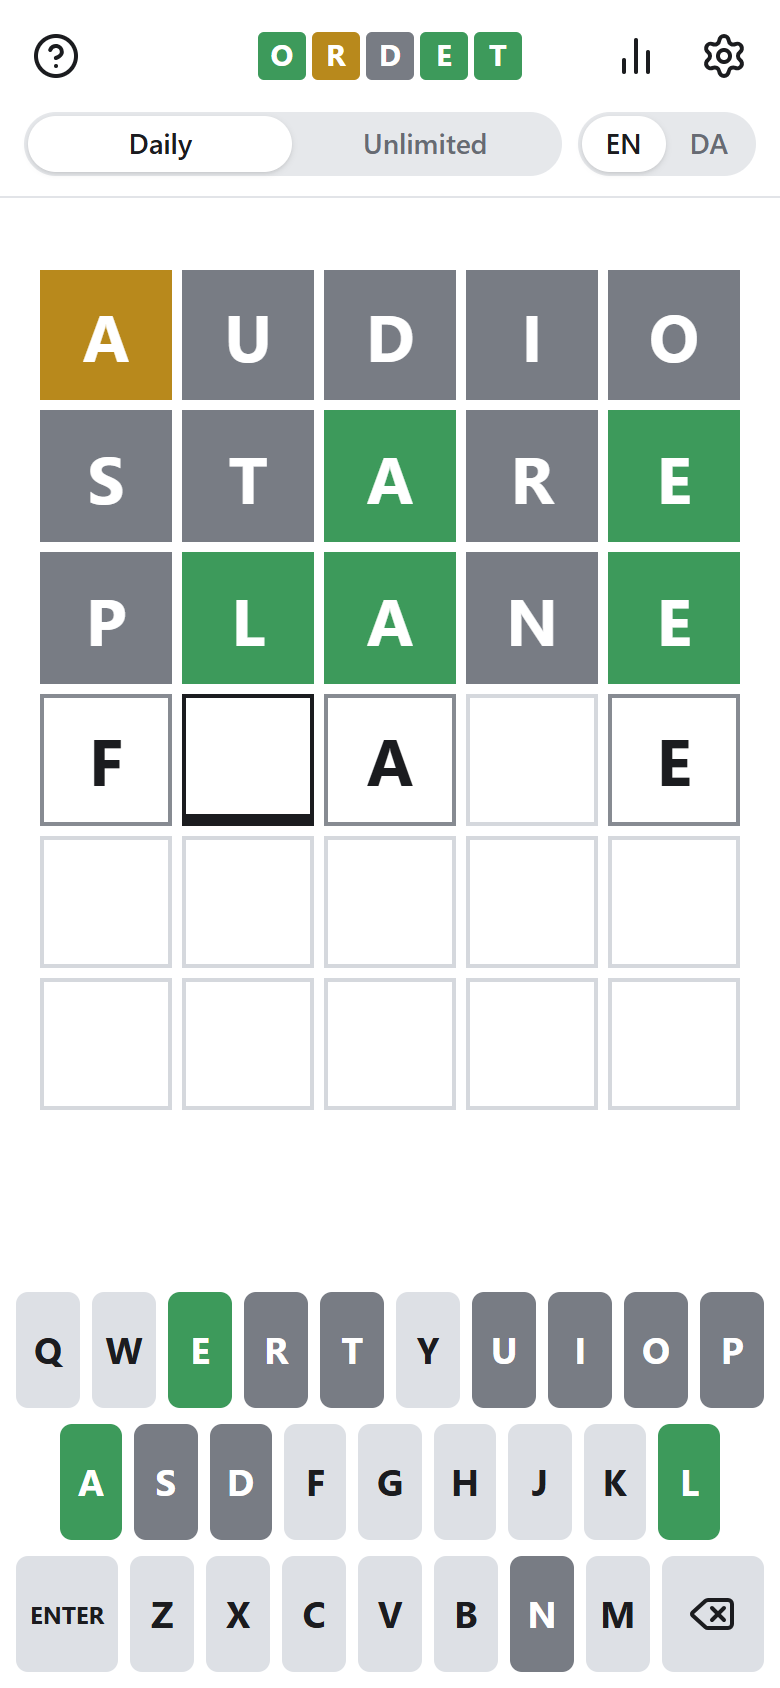
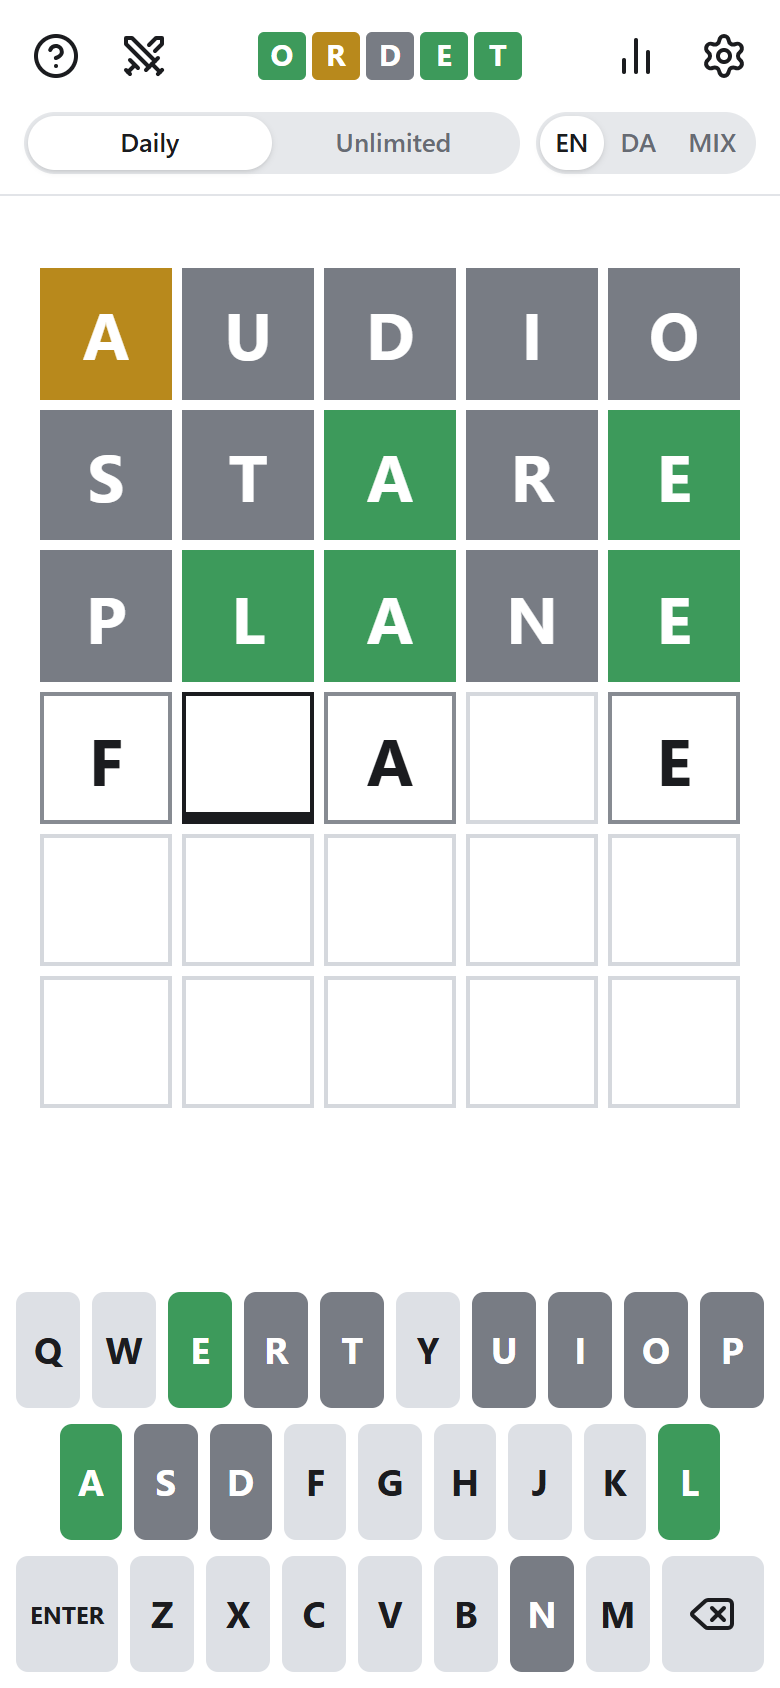
Redo the README and its pictures for the new features, with screenshots of Mix and the challenge dialog

diff --git a/scripts/screenshots.py b/scripts/screenshots.py
@@ -32,8 +32,9 @@ def game(solution: str, guesses: list[str], day: int | None = None) -> dict:
     return {"solution": solution, "guesses": guesses, "hard": False, "day": day}
 
 
-def saved(mode: str, games: dict, stats: dict | None = None, theme: str | None = None) -> dict:
-    return {"settings": {"mode": mode, "hard": False, "theme": theme, "contrast": False}, "games": games, "stats": stats or {}, "recent": {}}
+def saved(mode: str, games: dict, stats: dict | None = None, theme: str | None = None, mix: bool = False) -> dict:
+    # "news" is far ahead of any real one: the player has seen it all, so "What's new" stays out of the pictures
+    return {"settings": {"mode": mode, "mix": mix, "hard": False, "theme": theme, "contrast": False}, "games": games, "stats": stats or {}, "recent": {}, "news": 9999}
 
 
 def open_game(browser: Browser, url: str, state: dict, lang: str, **context) -> Page:
@@ -109,7 +110,21 @@ def main() -> None:
         page.wait_for_timeout(500)
         page.screenshot(path=args.out / "stats.png")
 
-        # 4. The GIF: place the greens from the first guess, fill the gaps, flip, win
+        # 4. Mix, won: a Danish and an English guess on the way, and the answer's language under the board
+        streak = {"mix-unlimited": {"played": 9, "wins": 8, "streak": 4, "best": 4, "guesses": [0, 1, 2, 3, 1, 1], "lastDay": None}}
+        page = open_game(
+            browser, args.url, saved("unlimited", {"mix-unlimited": game("fløde", ["crane", "skole", "fløde"])}, streak, mix=True), "en", locale="en-US", color_scheme="light"
+        )
+        page.screenshot(path=args.out / "mix.png")
+
+        # 5. A word for a friend: one that's in no list, so the dialog says to check the spelling
+        page = open_game(browser, args.url, saved("unlimited", {"en-unlimited": game("grape", ["crane"])}), "en", locale="en-US", color_scheme="light")
+        page.get_by_role("button", name="Challenge a friend", exact=True).click()
+        page.get_by_label("Your word").fill("ordet")
+        page.wait_for_timeout(500)
+        page.screenshot(path=args.out / "challenge.png")
+
+        # 6. The GIF: place the greens from the first guess, fill the gaps, flip, win in two (which gets confetti)
         page = open_game(
             browser,
             args.url,

diff --git a/README.md b/README.md
@@ -20,19 +20,28 @@ Every guess has to be a real five-letter word. After each one, the tiles show ho
 
 ## Features
 
-**Two modes, two languages.** Each language and mode keeps its own game, streak and statistics, so the Danish daily doesn't break the English streak.
+**Two modes, and three ways to pick the words.** Each combination keeps its own game, streak and statistics, so the Danish daily doesn't break the English streak.
 
-| | English | Danish |
-| --- | --- | --- |
-| **Daily** | The same word as that day's NYT Wordle, so you can compare with friends who play it | Ordet's own word of the day, the same for everyone |
-| **Unlimited** | A new word whenever you finish one | The same, in Danish |
+| | English | Danish | Mix |
+| --- | --- | --- | --- |
+| **Daily** | The same word as that day's NYT Wordle, so you can compare with friends who play it | Ordet's own word of the day, the same for everyone | A word that can be either, the same for everyone |
+| **Unlimited** | A new word whenever you finish one | The same, in Danish | The same, without knowing which language is next |
 
 The daily word changes at the player's own midnight.
+
+**Mix: English or Danish?** The third pick on the language switch. The answer can come from either language, guesses from both count, and working out which one you're in is part of the puzzle. More than 1,700 words count in both, so SPORT tells you nothing and an Ø tells you everything. When the game is over, it says which language the word was.
+
+**Challenge a friend.** Type any five letters, a name or an inside joke included, and send the link. Your friend gets six tries and never sees the word. A shared Unlimited result carries its word the same way, so whoever gets it can try the same one.
+
+<p align="center">
+  <img src="docs/mix.png" alt="A Mix game won in three guesses: an English guess, a Danish guess, then FLØDE, and a line under the board saying that FLØDE is Danish" width="250">
+  <img src="docs/challenge.png" alt="The Challenge a friend dialog: ORDET typed in as the word, a note that it isn't in the word list but still works, and the link that carries it" width="250">
+</p>
 
 **Type in any order.** Tap a tile, or use the arrow keys, Home and End, to move the cursor. The letters you already know can go in their spots first, and the next letters fill the gaps around them.
 
 <p align="center">
-  <img src="docs/demo.gif" alt="A guess typed out of order: R, A and E go in their spots first, G and P fill the gaps, then the tiles flip green, bounce, and the statistics open" width="300">
+  <img src="docs/demo.gif" alt="A guess typed out of order: R, A and E go in their spots first, G and P fill the gaps, then the tiles flip green and bounce, confetti flies for a win in two, and the statistics open" width="300">
 </p>
 
 **Real Danish.** The answers are common Danish words, and every inflected form in Den Danske Ordbog counts as a guess, so *huset* and *bøger* work even though they're never the answer. The Danish keyboard has Æ, Ø and Å where a Danish keyboard has them.
@@ -40,11 +49,16 @@ The daily word changes at the player's own midnight.
 **And the rest:**
 
 - Hard mode: every revealed hint has to be used in the next guesses.
-- Statistics per language and mode: games played, win rate, current and best streak, how many guesses each win took, and how many games weren't solved.
+- A hint when you're stuck, outside the Daily: one letter of the answer, which then waits in its slot. It costs a 💡 in the shared result.
+- Statistics per language and mode: games played, win rate, current and best streak, how many guesses each win took, and how many games weren't solved. The current streak sits on the statistics button, and a round number gets confetti. So does a win in one or two.
+- A link to look the word up after a game: Den Danske Ordbog for Danish, Wiktionary for English.
+- Statistics move to another device with a code to copy and paste.
 - Sharing without spoilers: the result as emoji squares, through the share sheet on phones and the clipboard elsewhere.
+- The game answers back a little: a few lines for each kind of win, one for a first guess that hits nothing, and a handful of words it has something to say about.
+- A What's new dialog, shown once to players who were here before an update, and kept in the settings after that.
 - Dark and high contrast themes. Dark follows the system setting until you pick one, and high contrast swaps green and yellow for orange and blue.
-- The physical keyboard works, every guess is read out to screen readers, the dialogs keep focus where it belongs, and animations stop when the system asks for reduced motion.
-- `?lang=da` and `?mode=unlimited` open the game in that language or mode.
+- The physical keyboard works, every guess is read out to screen readers, the dialogs keep focus where it belongs, and animations (the confetti included) stop when the system asks for reduced motion.
+- `?lang=da`, `?lang=mix` and `?mode=unlimited` open the game in that language or mode.
 
 ## How it works
 
@@ -52,12 +66,13 @@ The daily word changes at the player's own midnight.
 app/
   page.tsx            the game (a client component; everything depends on the player's browser)
   api/daily/          GET /api/daily?date=YYYY-MM-DD: the English daily word
-components/           Game (state and flow), Board, Keyboard, Header, the three dialogs
+components/           Game (state and flow), Board, Keyboard, Header, Confetti, the five dialogs
 data/
   ui.ts               all interface text, English and Danish, typed so Danish can't miss a key
   words/              the word lists (see scripts/words/README.md)
-lib/                  pure logic, unit tested: evaluation, hard mode, the row being typed,
-                      daily schedule, statistics, sharing, saved state, word loading
+lib/                  pure logic, unit tested: evaluation, hard mode, hints, the row being typed,
+                      daily schedules, statistics, sharing, challenge and transfer codes,
+                      saved state, word loading
 scripts/
   words/              how the word lists were built, and what was left out by hand
   screenshots.py      makes the pictures in docs/
@@ -69,8 +84,10 @@ A few decisions worth knowing about:
 - **The row being typed is five slots and a cursor** (`lib/input.ts`). A letter fills the cursor's slot and the cursor jumps to the next gap, wrapping back to an earlier one. Once the row is full the cursor parks past the end, so typing straight through behaves exactly like a plain left-to-right game.
 - **The English daily word comes from the server.** The Times has no public API, only the JSON its own game loads, and the browser can't read it (CORS). `/api/daily` fetches it for the player's local date, caches it for a day, and falls back to Ordet's own schedule if the request fails. It only answers for dates within a day of today, so it can't be used to look ahead.
 - **The word lists are curated.** The Danish answers are the most frequent five-letter headwords in DSL's frequency list, and the English ones are common base forms from ENABLE. Both were read through by hand to take out names, slurs and obscure words: 2,040 English and 1,299 Danish answers, with 11,834 and 8,155 accepted guesses.
-- **Saved state is validated.** Progress lives in `localStorage`, which the player controls, so it's parsed field by field and anything malformed is dropped (`lib/save.ts`).
-- **Word lists load on demand.** Each language is its own chunk, fetched the first time that language is played.
+- **Mix has a schedule of its own** (`lib/daily.ts`). A coin flip per day would now and then land on the same language ten days running, and taking turns would give the language away. So every six days are split three and three, each six in its own order. The word is the one that language's own Daily only reaches half a list later, so Mix never has the same word as that day's Daily.
+- **A friend's word travels as a seven-character code** (`lib/challenge.ts`): the word and its language packed into 27 bits, five check bits so a mistyped link is refused instead of becoming a nonsense word, and four Feistel rounds so the word can't be read off the address. It's a disguise, not a secret. The game always takes the answer as a guess, in a list or not, which is what lets a name be the word. The few words the lists refuse even as guesses are refused here too, kept as hashes so the game doesn't carry them in the open.
+- **Saved state is validated.** Progress lives in `localStorage`, which the player controls, so it's parsed field by field and anything malformed is dropped (`lib/save.ts`). A transfer code is read the same way (`lib/transfer.ts`), behind a checksum that catches a code cut short on the way.
+- **Word lists load on demand.** Each language is its own chunk, fetched the first time that language is played. Mix fetches both.
 
 ## Tech
 
